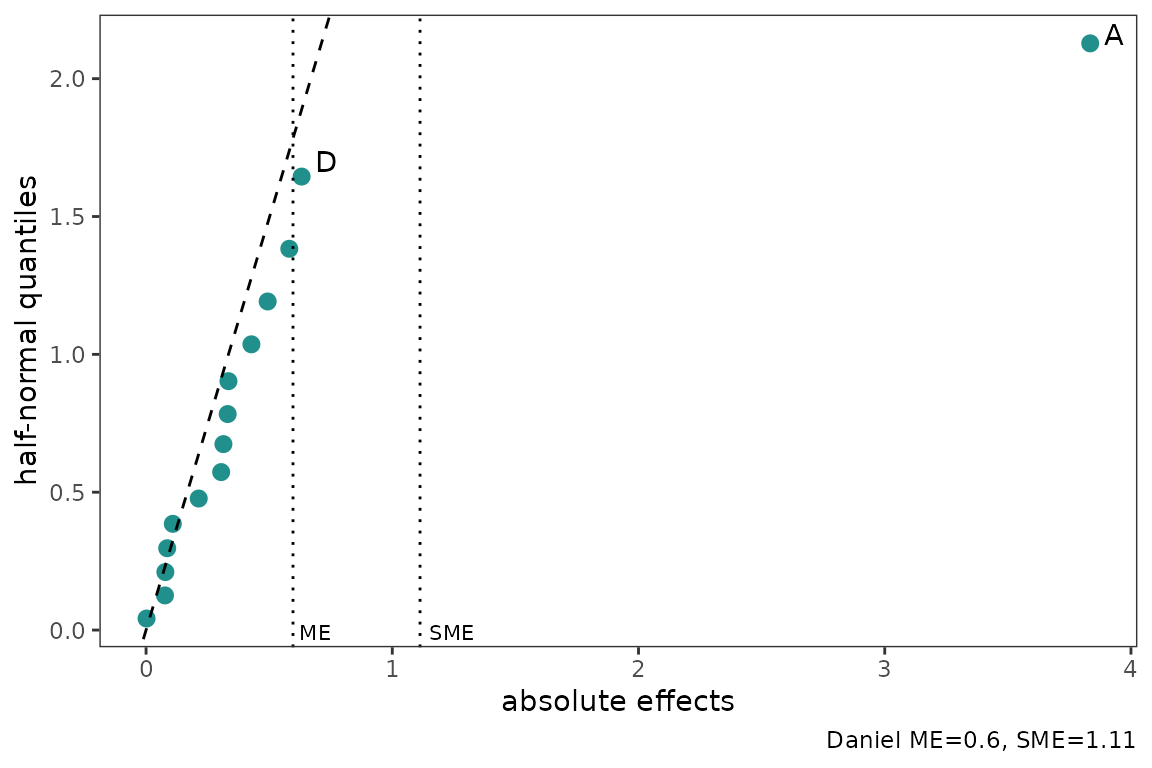
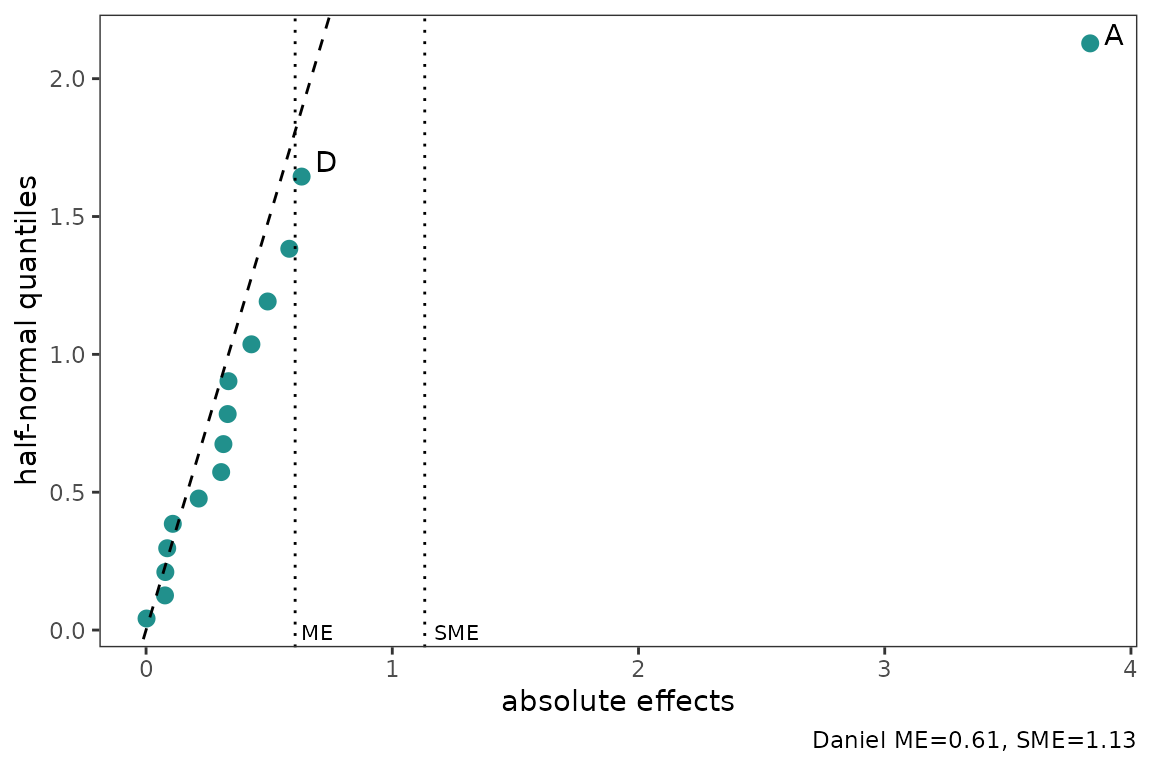
first CRAN release

Changed region(s): [[0.6875, 0.9375, 0.875, 0.9688], [0.375, 0.8125, 0.4062, 0.8438], [0.25, 0.8125, 0.2812, 0.8438]]

diff --git a/docs/index.html b/docs/index.html
@@ -7,7 +7,7 @@
 <meta name="viewport" content="width=device-width, initial-scale=1, shrink-to-fit=no">
 <meta name="description" content="Generate commonly used plots in the field of design of experiments using ggplot2.
   ggDoE currently supports the following plots: alias matrix, box cox transformation, boxplots, lambda plot,
-  regression diagnostic plots,half normal plots, main and interaction effect plots for factorial designs,
+  regression diagnostic plots, half normal plots, main and interaction effect plots for factorial designs,
   contour plots for response surface methodology, pareto plot, and two dimensional projections of a latin hypercube design.">
 <title>Modern Graphs for Design of Experiments with ggplot2 • ggDoE</title>
 <script src="deps/jquery-3.6.0/jquery-3.6.0.min.js"></script><meta name="viewport" content="width=device-width, initial-scale=1, shrink-to-fit=no">
@@ -18,7 +18,7 @@
 <!-- bootstrap-toc --><script src="https://cdn.rawgit.com/afeld/bootstrap-toc/v1.0.1/dist/bootstrap-toc.min.js"></script><!-- headroom.js --><script src="https://cdnjs.cloudflare.com/ajax/libs/headroom/0.11.0/headroom.min.js" integrity="sha256-AsUX4SJE1+yuDu5+mAVzJbuYNPHj/WroHuZ8Ir/CkE0=" crossorigin="anonymous"></script><script src="https://cdnjs.cloudflare.com/ajax/libs/headroom/0.11.0/jQuery.headroom.min.js" integrity="sha256-ZX/yNShbjqsohH1k95liqY9Gd8uOiE1S4vZc+9KQ1K4=" crossorigin="anonymous"></script><!-- clipboard.js --><script src="https://cdnjs.cloudflare.com/ajax/libs/clipboard.js/2.0.6/clipboard.min.js" integrity="sha256-inc5kl9MA1hkeYUt+EC3BhlIgyp/2jDIyBLS6k3UxPI=" crossorigin="anonymous"></script><!-- search --><script src="https://cdnjs.cloudflare.com/ajax/libs/fuse.js/6.4.6/fuse.js" integrity="sha512-zv6Ywkjyktsohkbp9bb45V6tEMoWhzFzXis+LrMehmJZZSys19Yxf1dopHx7WzIKxr5tK2dVcYmaCk2uqdjF4A==" crossorigin="anonymous"></script><script src="https://cdnjs.cloudflare.com/ajax/libs/autocomplete.js/0.38.0/autocomplete.jquery.min.js" integrity="sha512-GU9ayf+66Xx2TmpxqJpliWbT5PiGYxpaG8rfnBEk1LL8l1KGkRShhngwdXK1UgqhAzWpZHSiYPc09/NwDQIGyg==" crossorigin="anonymous"></script><script src="https://cdnjs.cloudflare.com/ajax/libs/mark.js/8.11.1/mark.min.js" integrity="sha512-5CYOlHXGh6QpOFA/TeTylKLWfB3ftPsde7AnmhuitiTX4K5SqCLBeKro6sPS8ilsz1Q4NRx3v8Ko2IBiszzdww==" crossorigin="anonymous"></script><!-- pkgdown --><script src="pkgdown.js"></script><meta property="og:title" content="Modern Graphs for Design of Experiments with ggplot2">
 <meta property="og:description" content="Generate commonly used plots in the field of design of experiments using ggplot2.
   ggDoE currently supports the following plots: alias matrix, box cox transformation, boxplots, lambda plot,
-  regression diagnostic plots,half normal plots, main and interaction effect plots for factorial designs,
+  regression diagnostic plots, half normal plots, main and interaction effect plots for factorial designs,
   contour plots for response surface methodology, pareto plot, and two dimensional projections of a latin hypercube design.">
 <!-- mathjax --><script src="https://cdnjs.cloudflare.com/ajax/libs/mathjax/2.7.5/MathJax.js" integrity="sha256-nvJJv9wWKEm88qvoQl9ekL2J+k/RWIsaSScxxlsrv8k=" crossorigin="anonymous"></script><script src="https://cdnjs.cloudflare.com/ajax/libs/mathjax/2.7.5/config/TeX-AMS-MML_HTMLorMML.js" integrity="sha256-84DKXVJXs0/F8OTMzX4UR909+jtl4G7SPypPavF+GfA=" crossorigin="anonymous"></script><!--[if lt IE 9]>
 <script src="https://oss.maxcdn.com/html5shiv/3.7.3/html5shiv.min.js"></script>
@@ -80,8 +80,16 @@
 <div class="section level2">
 <h2 id="installation">Installation<a class="anchor" aria-label="anchor" href="#installation"></a>
 </h2>
-<p>You can get the development version from GitHub:</p>
+<p>You can install:</p>
+<ul>
+<li>the latest release from CRAN with</li>
+</ul>
 <div class="sourceCode" id="cb1"><pre class="downlit sourceCode r">
+<code class="sourceCode R"><span><span class="fu"><a href="https://rdrr.io/r/utils/install.packages.html" class="external-link">install.packages</a></span><span class="op">(</span><span class="st">'ggDoE'</span><span class="op">)</span></span></code></pre></div>
+<ul>
+<li>the development version from GitHub with</li>
+</ul>
+<div class="sourceCode" id="cb2"><pre class="downlit sourceCode r">
 <code class="sourceCode R"><span><span class="kw">if</span> <span class="op">(</span><span class="op">!</span><span class="kw"><a href="https://rdrr.io/r/base/library.html" class="external-link">require</a></span><span class="op">(</span><span class="st"><a href="https://remotes.r-lib.org" class="external-link">"remotes"</a></span><span class="op">)</span><span class="op">)</span> <span class="fu"><a href="https://rdrr.io/r/utils/install.packages.html" class="external-link">install.packages</a></span><span class="op">(</span><span class="st">"remotes"</span><span class="op">)</span></span>
 <span><span class="fu">remotes</span><span class="fu">::</span><span class="fu"><a href="https://remotes.r-lib.org/reference/install_github.html" class="external-link">install_github</a></span><span class="op">(</span><span class="st">"toledo60/ggDoE"</span><span class="op">)</span></span></code></pre></div>
 </div>
@@ -89,30 +97,30 @@
 <h2 id="overview">Overview<a class="anchor" aria-label="anchor" href="#overview"></a>
 </h2>
 <p>With ggDoE you’ll be able to generate common plots used in Design of Experiments with ggplot2.</p>
-<div class="sourceCode" id="cb2"><pre class="downlit sourceCode r">
+<div class="sourceCode" id="cb3"><pre class="downlit sourceCode r">
 <code class="sourceCode R"><span><span class="kw"><a href="https://rdrr.io/r/base/library.html" class="external-link">library</a></span><span class="op">(</span><span class="va"><a href="https://ggdoe.netlify.app" class="external-link">ggDoE</a></span><span class="op">)</span></span></code></pre></div>
 <p>The following plots are currently available:</p>
 <p><strong>Alias Matrix</strong></p>
 <p>Correlation matrix plot to visualize the Alias matrix</p>
-<div class="sourceCode" id="cb3"><pre class="downlit sourceCode r">
+<div class="sourceCode" id="cb4"><pre class="downlit sourceCode r">
 <code class="sourceCode R"><span><span class="fu"><a href="reference/alias_matrix.html">alias_matrix</a></span><span class="op">(</span>design<span class="op">=</span><span class="va">aliased_design</span><span class="op">)</span></span></code></pre></div>
 <p><img src="reference/figures/alias_matrix.png"></p>
 <p><strong>Box-Cox Transformation</strong></p>
-<div class="sourceCode" id="cb4"><pre class="downlit sourceCode r">
+<div class="sourceCode" id="cb5"><pre class="downlit sourceCode r">
 <code class="sourceCode R"><span><span class="va">model</span> <span class="op">&lt;-</span> <span class="fu"><a href="https://rdrr.io/r/stats/lm.html" class="external-link">lm</a></span><span class="op">(</span><span class="va">s2</span> <span class="op">~</span> <span class="op">(</span><span class="va">A</span><span class="op">+</span><span class="va">B</span><span class="op">+</span><span class="va">C</span><span class="op">+</span><span class="va">D</span><span class="op">)</span>,data <span class="op">=</span> <span class="va">adapted_epitaxial</span><span class="op">)</span></span>
 <span><span class="fu"><a href="reference/boxcox_transform.html">boxcox_transform</a></span><span class="op">(</span><span class="va">model</span>,lambda <span class="op">=</span> <span class="fu"><a href="https://rdrr.io/r/base/seq.html" class="external-link">seq</a></span><span class="op">(</span><span class="op">-</span><span class="fl">5</span>,<span class="fl">5</span>,<span class="fl">0.2</span><span class="op">)</span><span class="op">)</span></span></code></pre></div>
 <p><img src="reference/figures/boxcox_transformation.png"></p>
 <p><strong>Lambda Plot</strong></p>
 <p>Obtain the trace plot of the <em>t</em>-statistics after applying Boxcox transformation across a specified sequence of lambda values</p>
-<div class="sourceCode" id="cb5"><pre class="downlit sourceCode r">
+<div class="sourceCode" id="cb6"><pre class="downlit sourceCode r">
 <code class="sourceCode R"><span><span class="va">model</span> <span class="op">&lt;-</span>  <span class="fu"><a href="https://rdrr.io/r/stats/lm.html" class="external-link">lm</a></span><span class="op">(</span><span class="va">s2</span> <span class="op">~</span> <span class="op">(</span><span class="va">A</span><span class="op">+</span><span class="va">B</span><span class="op">+</span><span class="va">C</span><span class="op">)</span><span class="op">^</span><span class="fl">2</span>,data<span class="op">=</span><span class="va">original_epitaxial</span><span class="op">)</span></span>
 <span><span class="fu"><a href="reference/lambda_plot.html">lambda_plot</a></span><span class="op">(</span><span class="va">model</span><span class="op">)</span></span></code></pre></div>
 <p><img src="reference/figures/lambda_plot1.png"></p>
-<div class="sourceCode" id="cb6"><pre class="downlit sourceCode r">
+<div class="sourceCode" id="cb7"><pre class="downlit sourceCode r">
 <code class="sourceCode R"><span><span class="fu"><a href="reference/lambda_plot.html">lambda_plot</a></span><span class="op">(</span><span class="va">model</span>, lambda <span class="op">=</span> <span class="fu"><a href="https://rdrr.io/r/base/seq.html" class="external-link">seq</a></span><span class="op">(</span><span class="fl">0</span>,<span class="fl">2</span>,by<span class="op">=</span><span class="fl">0.1</span><span class="op">)</span><span class="op">)</span></span></code></pre></div>
 <p><img src="reference/figures/lambda_plot2.png"></p>
 <p><strong>Boxplots</strong></p>
-<div class="sourceCode" id="cb7"><pre class="downlit sourceCode r">
+<div class="sourceCode" id="cb8"><pre class="downlit sourceCode r">
 <code class="sourceCode R"><span><span class="va">data</span> <span class="op">&lt;-</span> <span class="va">ToothGrowth</span></span>
 <span><span class="va">data</span><span class="op">$</span><span class="va">dose</span> <span class="op">&lt;-</span> <span class="fu"><a href="https://rdrr.io/r/base/factor.html" class="external-link">factor</a></span><span class="op">(</span><span class="va">data</span><span class="op">$</span><span class="va">dose</span>,levels <span class="op">=</span> <span class="fu"><a href="https://rdrr.io/r/base/c.html" class="external-link">c</a></span><span class="op">(</span><span class="fl">0.5</span>, <span class="fl">1</span>, <span class="fl">2</span><span class="op">)</span>,</span>
 <span>                    labels <span class="op">=</span> <span class="fu"><a href="https://rdrr.io/r/base/c.html" class="external-link">c</a></span><span class="op">(</span><span class="st">"D0.5"</span>, <span class="st">"D1"</span>, <span class="st">"D2"</span><span class="op">)</span><span class="op">)</span></span>
@@ -120,7 +128,7 @@
 <span><span class="fu"><a href="reference/gg_boxplots.html">gg_boxplots</a></span><span class="op">(</span><span class="va">data</span>,response <span class="op">=</span> <span class="st">'len'</span>,</span>
 <span>            factor <span class="op">=</span> <span class="st">'dose'</span><span class="op">)</span></span></code></pre></div>
 <p><img src="reference/figures/boxplot1.png"></p>
-<div class="sourceCode" id="cb8"><pre class="downlit sourceCode r">
+<div class="sourceCode" id="cb9"><pre class="downlit sourceCode r">
 <code class="sourceCode R"><span><span class="fu"><a href="reference/gg_boxplots.html">gg_boxplots</a></span><span class="op">(</span><span class="va">data</span>,response <span class="op">=</span> <span class="st">'len'</span>,</span>
 <span>            factor <span class="op">=</span> <span class="st">'dose'</span>,</span>
 <span>            group_var <span class="op">=</span> <span class="st">'supp'</span>,</span>
@@ -137,39 +145,39 @@
 <li>Collinearity</li>
 </ol>
 <p>The default plots are 1-4</p>
-<div class="sourceCode" id="cb9"><pre class="downlit sourceCode r">
+<div class="sourceCode" id="cb10"><pre class="downlit sourceCode r">
 <code class="sourceCode R"><span><span class="va">model</span> <span class="op">&lt;-</span> <span class="fu"><a href="https://rdrr.io/r/stats/lm.html" class="external-link">lm</a></span><span class="op">(</span><span class="va">mpg</span> <span class="op">~</span> <span class="va">wt</span> <span class="op">+</span> <span class="va">am</span> <span class="op">+</span> <span class="va">gear</span> <span class="op">+</span> <span class="va">vs</span> <span class="op">*</span> <span class="va">cyl</span>, data <span class="op">=</span> <span class="va">mtcars</span><span class="op">)</span></span>
 <span><span class="fu"><a href="reference/diagnostic_plots.html">diagnostic_plots</a></span><span class="op">(</span><span class="va">model</span>,which_plots<span class="op">=</span><span class="fl">1</span><span class="op">:</span><span class="fl">6</span><span class="op">)</span></span></code></pre></div>
 <p><img src="reference/figures/diagnostic_plots.png"></p>
 <p><strong>Half-Normal Plot</strong></p>
-<div class="sourceCode" id="cb10"><pre class="downlit sourceCode r">
+<div class="sourceCode" id="cb11"><pre class="downlit sourceCode r">
 <code class="sourceCode R"><span><span class="va">model</span> <span class="op">&lt;-</span> <span class="fu"><a href="https://rdrr.io/r/stats/lm.html" class="external-link">lm</a></span><span class="op">(</span><span class="va">ybar</span> <span class="op">~</span> <span class="op">(</span><span class="va">A</span><span class="op">+</span><span class="va">B</span><span class="op">+</span><span class="va">C</span><span class="op">+</span><span class="va">D</span><span class="op">)</span><span class="op">^</span><span class="fl">4</span>,data<span class="op">=</span><span class="va">adapted_epitaxial</span><span class="op">)</span></span>
 <span><span class="fu"><a href="reference/half_normal.html">half_normal</a></span><span class="op">(</span><span class="va">model</span><span class="op">)</span></span></code></pre></div>
 <p><img src="reference/figures/half_normal1.png"></p>
-<div class="sourceCode" id="cb11"><pre class="downlit sourceCode r">
+<div class="sourceCode" id="cb12"><pre class="downlit sourceCode r">
 <code class="sourceCode R"><span><span class="fu"><a href="reference/half_normal.html">half_normal</a></span><span class="op">(</span><span class="va">model</span>,method<span class="op">=</span><span class="st">'Zahn'</span>,alpha<span class="op">=</span><span class="fl">0.1</span>,</span>
 <span>            ref_line<span class="op">=</span><span class="cn">TRUE</span>,label_active<span class="op">=</span><span class="cn">TRUE</span>,</span>
 <span>            margin_errors<span class="op">=</span><span class="cn">TRUE</span><span class="op">)</span></span></code></pre></div>
 <p><img src="reference/figures/half_normal2.png"></p>
 <p><strong>Interaction Effects Plot (Factorial Design)</strong></p>
 <p>Interaction effects plot between two factors in a factorial design</p>
-<div class="sourceCode" id="cb12"><pre class="downlit sourceCode r">
+<div class="sourceCode" id="cb13"><pre class="downlit sourceCode r">
 <code class="sourceCode R"><span><span class="fu"><a href="reference/interaction_effects.html">interaction_effects</a></span><span class="op">(</span><span class="va">adapted_epitaxial</span>,response <span class="op">=</span> <span class="st">'ybar'</span>,</span>
 <span>                    exclude_vars <span class="op">=</span> <span class="fu"><a href="https://rdrr.io/r/base/c.html" class="external-link">c</a></span><span class="op">(</span><span class="st">'s2'</span>,<span class="st">'lns2'</span><span class="op">)</span><span class="op">)</span></span></code></pre></div>
 <p><img src="reference/figures/interactions1.png"></p>
-<div class="sourceCode" id="cb13"><pre class="downlit sourceCode r">
+<div class="sourceCode" id="cb14"><pre class="downlit sourceCode r">
 <code class="sourceCode R"><span><span class="fu"><a href="reference/interaction_effects.html">interaction_effects</a></span><span class="op">(</span><span class="va">adapted_epitaxial</span>,response <span class="op">=</span> <span class="st">'ybar'</span>,</span>
 <span>                    exclude_vars <span class="op">=</span> <span class="fu"><a href="https://rdrr.io/r/base/c.html" class="external-link">c</a></span><span class="op">(</span><span class="st">'A'</span>,<span class="st">'s2'</span>,<span class="st">'lns2'</span><span class="op">)</span>,</span>
 <span>                    n_columns<span class="op">=</span><span class="fl">3</span><span class="op">)</span></span></code></pre></div>
 <p><img src="reference/figures/interactions2.png"></p>
 <p><strong>Main Effects Plots (Factorial Design)</strong></p>
 <p>Main effect plots for each factor in a factorial design</p>
-<div class="sourceCode" id="cb14"><pre class="downlit sourceCode r">
+<div class="sourceCode" id="cb15"><pre class="downlit sourceCode r">
 <code class="sourceCode R"><span><span class="fu"><a href="reference/main_effects.html">main_effects</a></span><span class="op">(</span><span class="va">original_epitaxial</span>,</span>
 <span>             response<span class="op">=</span><span class="st">'s2'</span>,</span>
 <span>             exclude_vars <span class="op">=</span> <span class="fu"><a href="https://rdrr.io/r/base/c.html" class="external-link">c</a></span><span class="op">(</span><span class="st">'ybar'</span>,<span class="st">'lns2'</span><span class="op">)</span><span class="op">)</span></span></code></pre></div>
 <p><img src="reference/figures/main_effects1.png"></p>
-<div class="sourceCode" id="cb15"><pre class="downlit sourceCode r">
+<div class="sourceCode" id="cb16"><pre class="downlit sourceCode r">
 <code class="sourceCode R"><span><span class="fu"><a href="reference/main_effects.html">main_effects</a></span><span class="op">(</span><span class="va">original_epitaxial</span>,</span>
 <span>             response<span class="op">=</span><span class="st">'s2'</span>,</span>
 <span>             exclude_vars <span class="op">=</span> <span class="fu"><a href="https://rdrr.io/r/base/c.html" class="external-link">c</a></span><span class="op">(</span><span class="st">'A'</span>,<span class="st">'ybar'</span>,<span class="st">'lns2'</span><span class="op">)</span>,</span>
@@ -178,30 +186,30 @@
 <p><img src="reference/figures/main_effects2.png"></p>
 <p><strong>Contour Plots</strong></p>
 <p>contour plot(s) that display the fitted surface for an <em>rsm</em> object involving two or more numerical predictors</p>
-<div class="sourceCode" id="cb16"><pre class="downlit sourceCode r">
+<div class="sourceCode" id="cb17"><pre class="downlit sourceCode r">
 <code class="sourceCode R"><span><span class="va">heli.rsm</span> <span class="op">&lt;-</span> <span class="fu">rsm</span><span class="fu">::</span><span class="fu"><a href="https://rdrr.io/pkg/rsm/man/rsm.html" class="external-link">rsm</a></span><span class="op">(</span><span class="va">ave</span> <span class="op">~</span> <span class="fu">SO</span><span class="op">(</span><span class="va">x1</span>, <span class="va">x2</span>, <span class="va">x3</span>, <span class="va">x4</span><span class="op">)</span>, </span>
 <span>                     data <span class="op">=</span> <span class="fu">rsm</span><span class="fu">::</span><span class="va"><a href="https://rdrr.io/pkg/rsm/man/heli.html" class="external-link">heli</a></span><span class="op">)</span></span></code></pre></div>
-<div class="sourceCode" id="cb17"><pre class="downlit sourceCode r">
+<div class="sourceCode" id="cb18"><pre class="downlit sourceCode r">
 <code class="sourceCode R"><span><span class="fu"><a href="reference/gg_rsm.html">gg_rsm</a></span><span class="op">(</span><span class="va">heli.rsm</span>,form <span class="op">=</span> <span class="op">~</span><span class="va">x1</span><span class="op">+</span><span class="va">x2</span><span class="op">+</span><span class="va">x3</span><span class="op">+</span><span class="va">x4</span>,</span>
 <span>       at <span class="op">=</span> <span class="fu">rsm</span><span class="fu">::</span><span class="fu"><a href="https://rdrr.io/pkg/rsm/man/rsm.html" class="external-link">xs</a></span><span class="op">(</span><span class="va">heli.rsm</span><span class="op">)</span><span class="op">)</span></span></code></pre></div>
 <p><img src="reference/figures/contour1.png"></p>
-<div class="sourceCode" id="cb18"><pre class="downlit sourceCode r">
+<div class="sourceCode" id="cb19"><pre class="downlit sourceCode r">
 <code class="sourceCode R"><span><span class="fu"><a href="reference/gg_rsm.html">gg_rsm</a></span><span class="op">(</span><span class="va">heli.rsm</span>,form <span class="op">=</span> <span class="op">~</span><span class="va">x1</span><span class="op">+</span><span class="va">x2</span><span class="op">+</span><span class="va">x3</span><span class="op">+</span><span class="va">x4</span>,</span>
 <span>       at <span class="op">=</span> <span class="fu">rsm</span><span class="fu">::</span><span class="fu"><a href="https://rdrr.io/pkg/rsm/man/rsm.html" class="external-link">xs</a></span><span class="op">(</span><span class="va">heli.rsm</span><span class="op">)</span>,</span>
 <span>       filled <span class="op">=</span> <span class="cn">TRUE</span><span class="op">)</span></span></code></pre></div>
 <p><img src="reference/figures/contour2.png"></p>
 <p><strong>Pareto Plot</strong></p>
 <p>Pareto plot of effects with cutoff values for the margin of error (ME) and simultaneous margin of error (SME)</p>
-<div class="sourceCode" id="cb19"><pre class="downlit sourceCode r">
+<div class="sourceCode" id="cb20"><pre class="downlit sourceCode r">
 <code class="sourceCode R"><span><span class="va">model</span> <span class="op">&lt;-</span> <span class="fu"><a href="https://rdrr.io/r/stats/lm.html" class="external-link">lm</a></span><span class="op">(</span><span class="va">lns2</span> <span class="op">~</span> <span class="op">(</span><span class="va">A</span><span class="op">+</span><span class="va">B</span><span class="op">+</span><span class="va">C</span><span class="op">+</span><span class="va">D</span><span class="op">)</span><span class="op">^</span><span class="fl">4</span>,data<span class="op">=</span><span class="va">original_epitaxial</span><span class="op">)</span></span>
 <span><span class="fu"><a href="reference/pareto_plot.html">pareto_plot</a></span><span class="op">(</span><span class="va">model</span><span class="op">)</span></span></code></pre></div>
 <p><img src="reference/figures/pareto_plot1.png"></p>
-<div class="sourceCode" id="cb20"><pre class="downlit sourceCode r">
+<div class="sourceCode" id="cb21"><pre class="downlit sourceCode r">
 <code class="sourceCode R"><span><span class="fu"><a href="reference/pareto_plot.html">pareto_plot</a></span><span class="op">(</span><span class="va">model</span>,method<span class="op">=</span><span class="st">'Zahn'</span>,alpha<span class="op">=</span><span class="fl">0.1</span><span class="op">)</span></span></code></pre></div>
 <p><img src="reference/figures/pareto_plot2.png"></p>
 <p><strong>Two Dimensional Projections</strong></p>
 <p>This function will output all two dimensional projections from a Latin hypercube design</p>
-<div class="sourceCode" id="cb21"><pre class="downlit sourceCode r">
+<div class="sourceCode" id="cb22"><pre class="downlit sourceCode r">
 <code class="sourceCode R"><span><span class="fu"><a href="https://rdrr.io/r/base/Random.html" class="external-link">set.seed</a></span><span class="op">(</span><span class="fl">10</span><span class="op">)</span></span>
 <span><span class="va">X</span> <span class="op">&lt;-</span> <span class="fu">lhs</span><span class="fu">::</span><span class="fu"><a href="https://rdrr.io/pkg/lhs/man/randomLHS.html" class="external-link">randomLHS</a></span><span class="op">(</span>n<span class="op">=</span><span class="fl">10</span>, k<span class="op">=</span><span class="fl">4</span><span class="op">)</span></span>
 <span><span class="fu"><a href="reference/twoD_projections.html">twoD_projections</a></span><span class="op">(</span><span class="va">X</span>,n_columns<span class="op">=</span><span class="fl">3</span>,grid <span class="op">=</span> <span class="cn">TRUE</span><span class="op">)</span></span></code></pre></div>
@@ -217,30 +225,23 @@
 <h2 id="citation">Citation<a class="anchor" aria-label="anchor" href="#citation"></a>
 </h2>
 <p>If you want to cite this package in a scientific journal or in any other context, run the following code in your <code>R</code> console</p>
-<div class="sourceCode" id="cb22"><pre class="downlit sourceCode r">
+<div class="sourceCode" id="cb23"><pre class="downlit sourceCode r">
 <code class="sourceCode R"><span><span class="fu"><a href="https://rdrr.io/r/utils/citation.html" class="external-link">citation</a></span><span class="op">(</span><span class="st">'ggDoE'</span><span class="op">)</span></span></code></pre></div>
-<div class="sourceCode" id="cb23"><pre class="sourceCode R"><code class="sourceCode r"><span id="cb23-1"><a href="#cb23-1" aria-hidden="true" tabindex="-1"></a>Warning <span class="cf">in</span> <span class="fu">citation</span>(<span class="st">"ggDoE"</span>)<span class="sc">:</span> no date field <span class="cf">in</span> DESCRIPTION file of package</span>
-<span id="cb23-2"><a href="#cb23-2" aria-hidden="true" tabindex="-1"></a><span class="st">'ggDoE'</span></span>
-<span id="cb23-3"><a href="#cb23-3" aria-hidden="true" tabindex="-1"></a></span>
-<span id="cb23-4"><a href="#cb23-4" aria-hidden="true" tabindex="-1"></a>Warning <span class="cf">in</span> <span class="fu">citation</span>(<span class="st">"ggDoE"</span>)<span class="sc">:</span> could not determine year <span class="cf">for</span> <span class="st">'ggDoE'</span> from package</span>
-<span id="cb23-5"><a href="#cb23-5" aria-hidden="true" tabindex="-1"></a>DESCRIPTION file</span>
-<span id="cb23-6"><a href="#cb23-6" aria-hidden="true" tabindex="-1"></a></span>
-<span id="cb23-7"><a href="#cb23-7" aria-hidden="true" tabindex="-1"></a></span>
-<span id="cb23-8"><a href="#cb23-8" aria-hidden="true" tabindex="-1"></a>To cite package <span class="st">'ggDoE'</span> <span class="cf">in</span> publications use<span class="sc">:</span></span>
-<span id="cb23-9"><a href="#cb23-9" aria-hidden="true" tabindex="-1"></a></span>
-<span id="cb23-10"><a href="#cb23-10" aria-hidden="true" tabindex="-1"></a>  Toledo Luna <span class="fu">J</span> (????). _ggDoE<span class="sc">:</span> Modern Graphs <span class="cf">for</span> Design of Experiments</span>
-<span id="cb23-11"><a href="#cb23-11" aria-hidden="true" tabindex="-1"></a>  with <span class="st">'ggplot2'</span>_. R package version <span class="dv">0</span>.<span class="fl">7.8</span>,</span>
-<span id="cb23-12"><a href="#cb23-12" aria-hidden="true" tabindex="-1"></a>  <span class="sc">&lt;</span>https<span class="sc">:</span><span class="er">//</span>ggdoe.netlify.app<span class="sc">&gt;</span>.</span>
-<span id="cb23-13"><a href="#cb23-13" aria-hidden="true" tabindex="-1"></a></span>
-<span id="cb23-14"><a href="#cb23-14" aria-hidden="true" tabindex="-1"></a>A BibTeX entry <span class="cf">for</span> LaTeX users is</span>
-<span id="cb23-15"><a href="#cb23-15" aria-hidden="true" tabindex="-1"></a></span>
-<span id="cb23-16"><a href="#cb23-16" aria-hidden="true" tabindex="-1"></a>  <span class="sc">@</span>Manual{,</span>
-<span id="cb23-17"><a href="#cb23-17" aria-hidden="true" tabindex="-1"></a>    title <span class="ot">=</span> {ggDoE<span class="sc">:</span> Modern Graphs <span class="cf">for</span> Design of Experiments with <span class="st">'ggplot2'</span>},</span>
-<span id="cb23-18"><a href="#cb23-18" aria-hidden="true" tabindex="-1"></a>    author <span class="ot">=</span> {Jose {Toledo Luna}},</span>
-<span id="cb23-19"><a href="#cb23-19" aria-hidden="true" tabindex="-1"></a>    note <span class="ot">=</span> {R package version <span class="dv">0</span>.<span class="fl">7.8</span>},</span>
-<span id="cb23-20"><a href="#cb23-20" aria-hidden="true" tabindex="-1"></a>    url <span class="ot">=</span> {https<span class="sc">:</span><span class="er">//</span>ggdoe.netlify.app},</span>
-<span id="cb23-21"><a href="#cb23-21" aria-hidden="true" tabindex="-1"></a>  }</span></code></pre></div>
-<p><em>Note:</em> Once this package is submitted to CRAN the date warning will disappear. Simply change (????) to (2022)</p>
+<div class="sourceCode" id="cb24"><pre class="sourceCode R"><code class="sourceCode r"><span id="cb24-1"><a href="#cb24-1" aria-hidden="true" tabindex="-1"></a>To cite package <span class="st">'ggDoE'</span> <span class="cf">in</span> publications use<span class="sc">:</span></span>
+<span id="cb24-2"><a href="#cb24-2" aria-hidden="true" tabindex="-1"></a></span>
+<span id="cb24-3"><a href="#cb24-3" aria-hidden="true" tabindex="-1"></a>  Toledo Luna <span class="fu">J</span> (<span class="dv">2022</span>). _ggDoE<span class="sc">:</span> Modern Graphs <span class="cf">for</span> Design of Experiments</span>
+<span id="cb24-4"><a href="#cb24-4" aria-hidden="true" tabindex="-1"></a>  with <span class="st">'ggplot2'</span>_. R package version <span class="dv">0</span>.<span class="fl">7.8</span>,</span>
+<span id="cb24-5"><a href="#cb24-5" aria-hidden="true" tabindex="-1"></a>  <span class="sc">&lt;</span>https<span class="sc">:</span><span class="er">//</span>CRAN.R<span class="sc">-</span>project.org<span class="sc">/</span>package<span class="ot">=</span>ggDoE<span class="sc">&gt;</span>.</span>
+<span id="cb24-6"><a href="#cb24-6" aria-hidden="true" tabindex="-1"></a></span>
+<span id="cb24-7"><a href="#cb24-7" aria-hidden="true" tabindex="-1"></a>A BibTeX entry <span class="cf">for</span> LaTeX users is</span>
+<span id="cb24-8"><a href="#cb24-8" aria-hidden="true" tabindex="-1"></a></span>
+<span id="cb24-9"><a href="#cb24-9" aria-hidden="true" tabindex="-1"></a>  <span class="sc">@</span>Manual{,</span>
+<span id="cb24-10"><a href="#cb24-10" aria-hidden="true" tabindex="-1"></a>    title <span class="ot">=</span> {ggDoE<span class="sc">:</span> Modern Graphs <span class="cf">for</span> Design of Experiments with <span class="st">'ggplot2'</span>},</span>
+<span id="cb24-11"><a href="#cb24-11" aria-hidden="true" tabindex="-1"></a>    author <span class="ot">=</span> {Jose {Toledo Luna}},</span>
+<span id="cb24-12"><a href="#cb24-12" aria-hidden="true" tabindex="-1"></a>    year <span class="ot">=</span> {<span class="dv">2022</span>},</span>
+<span id="cb24-13"><a href="#cb24-13" aria-hidden="true" tabindex="-1"></a>    note <span class="ot">=</span> {R package version <span class="dv">0</span>.<span class="fl">7.8</span>},</span>
+<span id="cb24-14"><a href="#cb24-14" aria-hidden="true" tabindex="-1"></a>    url <span class="ot">=</span> {https<span class="sc">:</span><span class="er">//</span>CRAN.R<span class="sc">-</span>project.org<span class="sc">/</span>package<span class="ot">=</span>ggDoE},</span>
+<span id="cb24-15"><a href="#cb24-15" aria-hidden="true" tabindex="-1"></a>  }</span></code></pre></div>
 </div>
 <div class="section level2">
 <h2 id="contributing-to-the-package">Contributing to the package<a class="anchor" aria-label="anchor" href="#contributing-to-the-package"></a>
@@ -251,6 +252,7 @@
   </main><aside class="col-md-3"><div class="links">
 <h2 data-toc-skip>Links</h2>
 <ul class="list-unstyled">
+<li><a href="https://cloud.r-project.org/package=ggDoE" class="external-link">View on CRAN</a></li>
 <li><a href="https://github.com/toledo60/ggDoE/" class="external-link">Browse source code</a></li>
 <li><a href="https://github.com/toledo60/ggDoE/issues" class="external-link">Report a bug</a></li>
 </ul>
@@ -288,9 +290,9 @@
 <div class="dev-status">
 <h2 data-toc-skip>Dev status</h2>
 <ul class="list-unstyled">
+<li><a href="https://cran.r-project.org/package=ggDoE" class="external-link"><img src="https://www.r-pkg.org/badges/version/ggDoE" alt="CRAN status"></a></li>
 <li><a href="https://github.com/toledo60/ggDoE/actions" class="external-link"><img src="https://github.com/toledo60/ggDoE/workflows/R-CMD-check/badge.svg" alt="R-CMD-check"></a></li>
 <li><a href="https://ggdoe.netlify.app/" class="external-link"><img src="https://img.shields.io/badge/Documentation-ggDoE-blue" alt="Documentation"></a></li>
-<li><a href="https://app.netlify.com/sites/ggdoe/deploys" class="external-link"><img src="https://api.netlify.com/api/v1/badges/20d30180-f503-4b63-ba9c-c95bfca3826e/deploy-status" alt="Netlify Status"></a></li>
 </ul>
 </div>
 

diff --git a/docs/articles/Overview_of_ggDoE.html b/docs/articles/Overview_of_ggDoE.html
@@ -534,7 +534,7 @@ construct the pareto plot.</p>
 <span><span class="co">#&gt; <span style="color: #949494;"># A tibble: 1 × 4</span></span></span>
 <span><span class="co">#&gt;   alpha   PSE    ME   SME</span></span>
 <span><span class="co">#&gt;   <span style="color: #949494; font-style: italic;">&lt;dbl&gt;</span> <span style="color: #949494; font-style: italic;">&lt;dbl&gt;</span> <span style="color: #949494; font-style: italic;">&lt;dbl&gt;</span> <span style="color: #949494; font-style: italic;">&lt;dbl&gt;</span></span></span>
-<span><span class="co">#&gt; <span style="color: #BCBCBC;">1</span>   0.1 0.335 0.601  1.15</span></span>
+<span><span class="co">#&gt; <span style="color: #BCBCBC;">1</span>   0.1 0.335 0.603  1.11</span></span>
 <span><span class="co">#&gt; </span></span>
 <span><span class="co">#&gt; $dat</span></span>
 <span><span class="co">#&gt; <span style="color: #949494;"># A tibble: 15 × 3</span></span></span>

diff --git a/docs/news/index.html b/docs/news/index.html
@@ -51,7 +51,7 @@
     </div>
 
     <div class="section level2">
-<h2 class="pkg-version" data-toc-text="0.7.8" id="ggdoe-078">ggDoE 0.7.8<a class="anchor" aria-label="anchor" href="#ggdoe-078"></a></h2>
+<h2 class="pkg-version" data-toc-text="0.7.8" id="ggdoe-078">ggDoE 0.7.8<a class="anchor" aria-label="anchor" href="#ggdoe-078"></a></h2><p class="text-muted">CRAN release: 2022-08-23</p>
 <p>BREAKING</p>
 <ul><li>
 <code><a href="../reference/gg_boxplots.html">gg_boxplots()</a></code> arguments <code>response</code>,<code>factor</code>,<code>group_var</code> are now string characters</li>

diff --git a/README.md b/README.md
@@ -1,14 +1,22 @@
 
 # ggDoE
 
+[![CRAN
+status](https://www.r-pkg.org/badges/version/ggDoE)](https://cran.r-project.org/package=ggDoE)
 [![R-CMD-check](https://github.com/toledo60/ggDoE/workflows/R-CMD-check/badge.svg)](https://github.com/toledo60/ggDoE/actions)
 [![Documentation](https://img.shields.io/badge/Documentation-ggDoE-blue)](https://ggdoe.netlify.app/)
-[![Netlify
-Status](https://api.netlify.com/api/v1/badges/20d30180-f503-4b63-ba9c-c95bfca3826e/deploy-status)](https://app.netlify.com/sites/ggdoe/deploys)
 
 ## Installation
 
-You can get the development version from GitHub:
+You can install:
+
+-   the latest release from CRAN with
+
+``` r
+install.packages('ggDoE')
+```
+
+-   the development version from GitHub with
 
 ``` r
 if (!require("remotes")) install.packages("remotes")
@@ -242,30 +250,22 @@ context, run the following code in your `R` console
 citation('ggDoE')
 ```
 
-    Warning in citation("ggDoE"): no date field in DESCRIPTION file of package
-    'ggDoE'
-
-    Warning in citation("ggDoE"): could not determine year for 'ggDoE' from package
-    DESCRIPTION file
-
 
     To cite package 'ggDoE' in publications use:
 
-      Toledo Luna J (????). _ggDoE: Modern Graphs for Design of Experiments
+      Toledo Luna J (2022). _ggDoE: Modern Graphs for Design of Experiments
       with 'ggplot2'_. R package version 0.7.8,
-      <https://ggdoe.netlify.app>.
+      <https://CRAN.R-project.org/package=ggDoE>.
 
     A BibTeX entry for LaTeX users is
 
       @Manual{,
         title = {ggDoE: Modern Graphs for Design of Experiments with 'ggplot2'},
         author = {Jose {Toledo Luna}},
+        year = {2022},
         note = {R package version 0.7.8},
-        url = {https://ggdoe.netlify.app},
+        url = {https://CRAN.R-project.org/package=ggDoE},
       }
-
-*Note:* Once this package is submitted to CRAN the date warning will
-disappear. Simply change (????) to (2022)
 
 ## Contributing to the package
 
